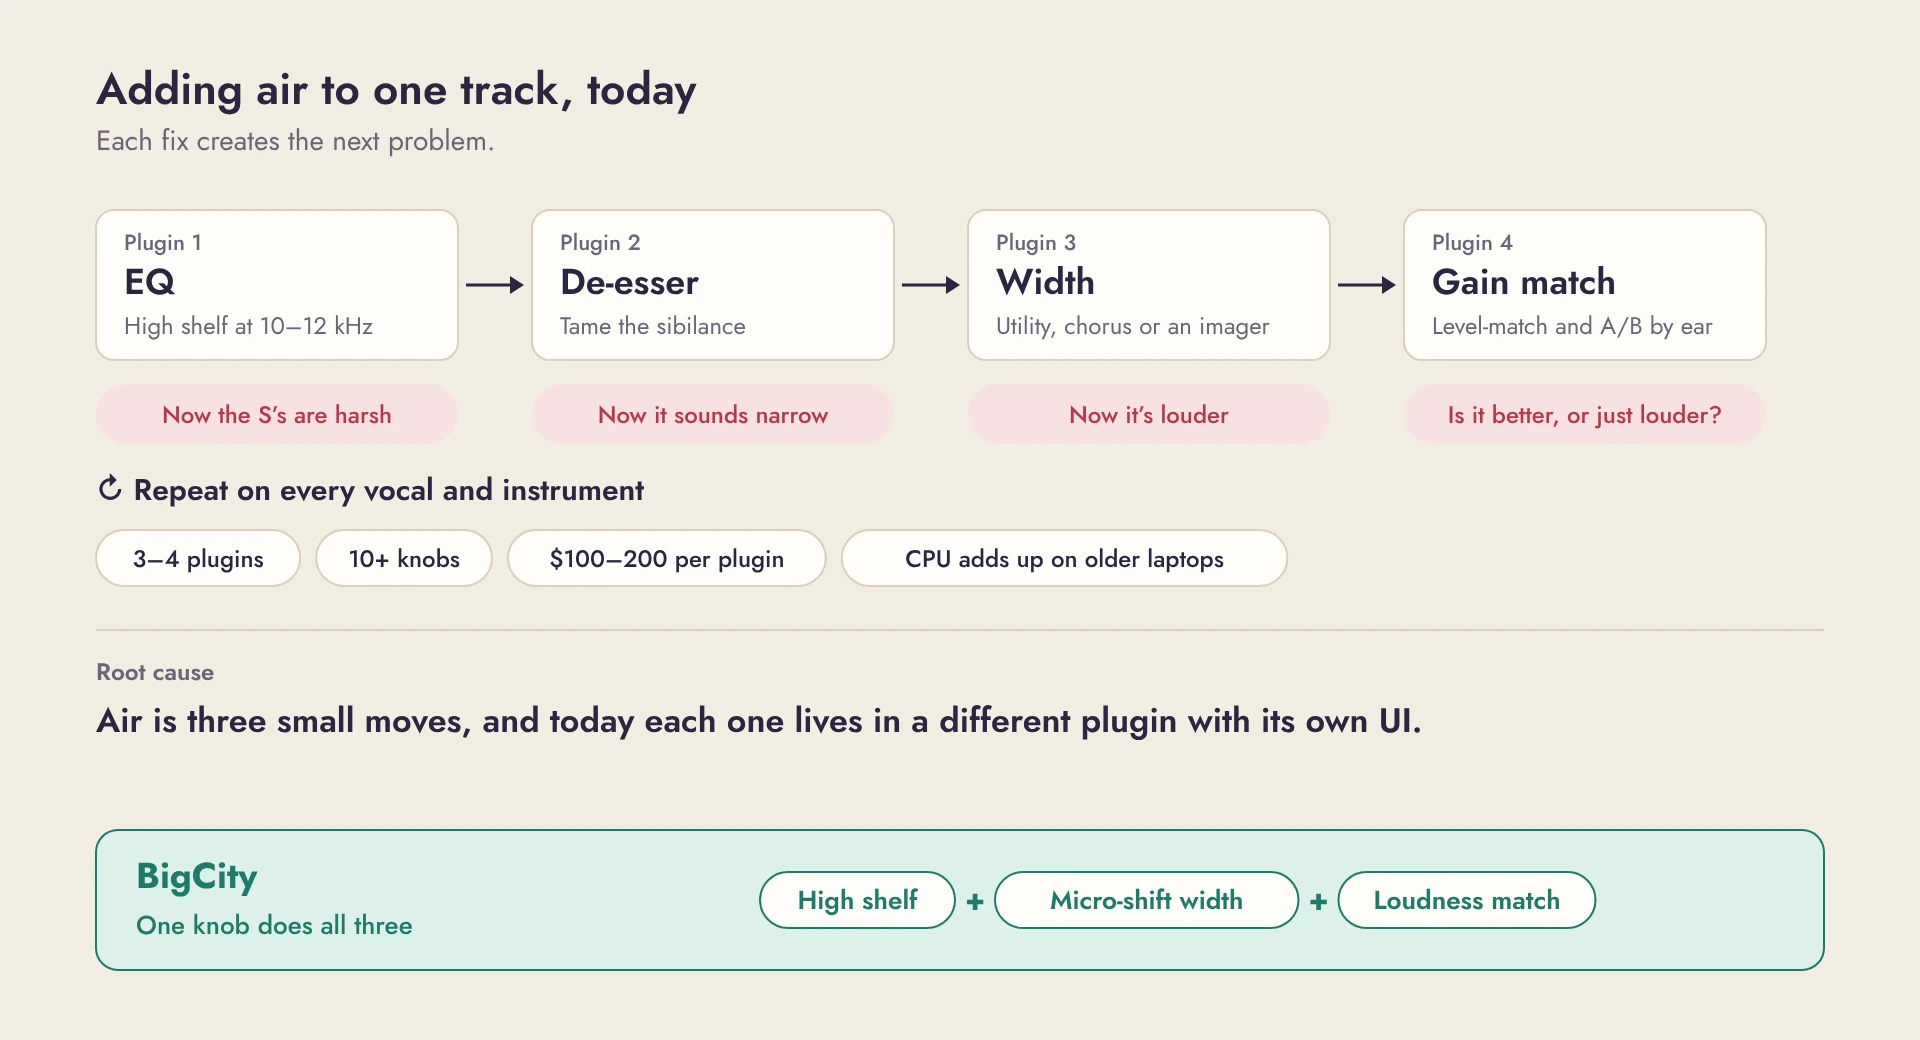
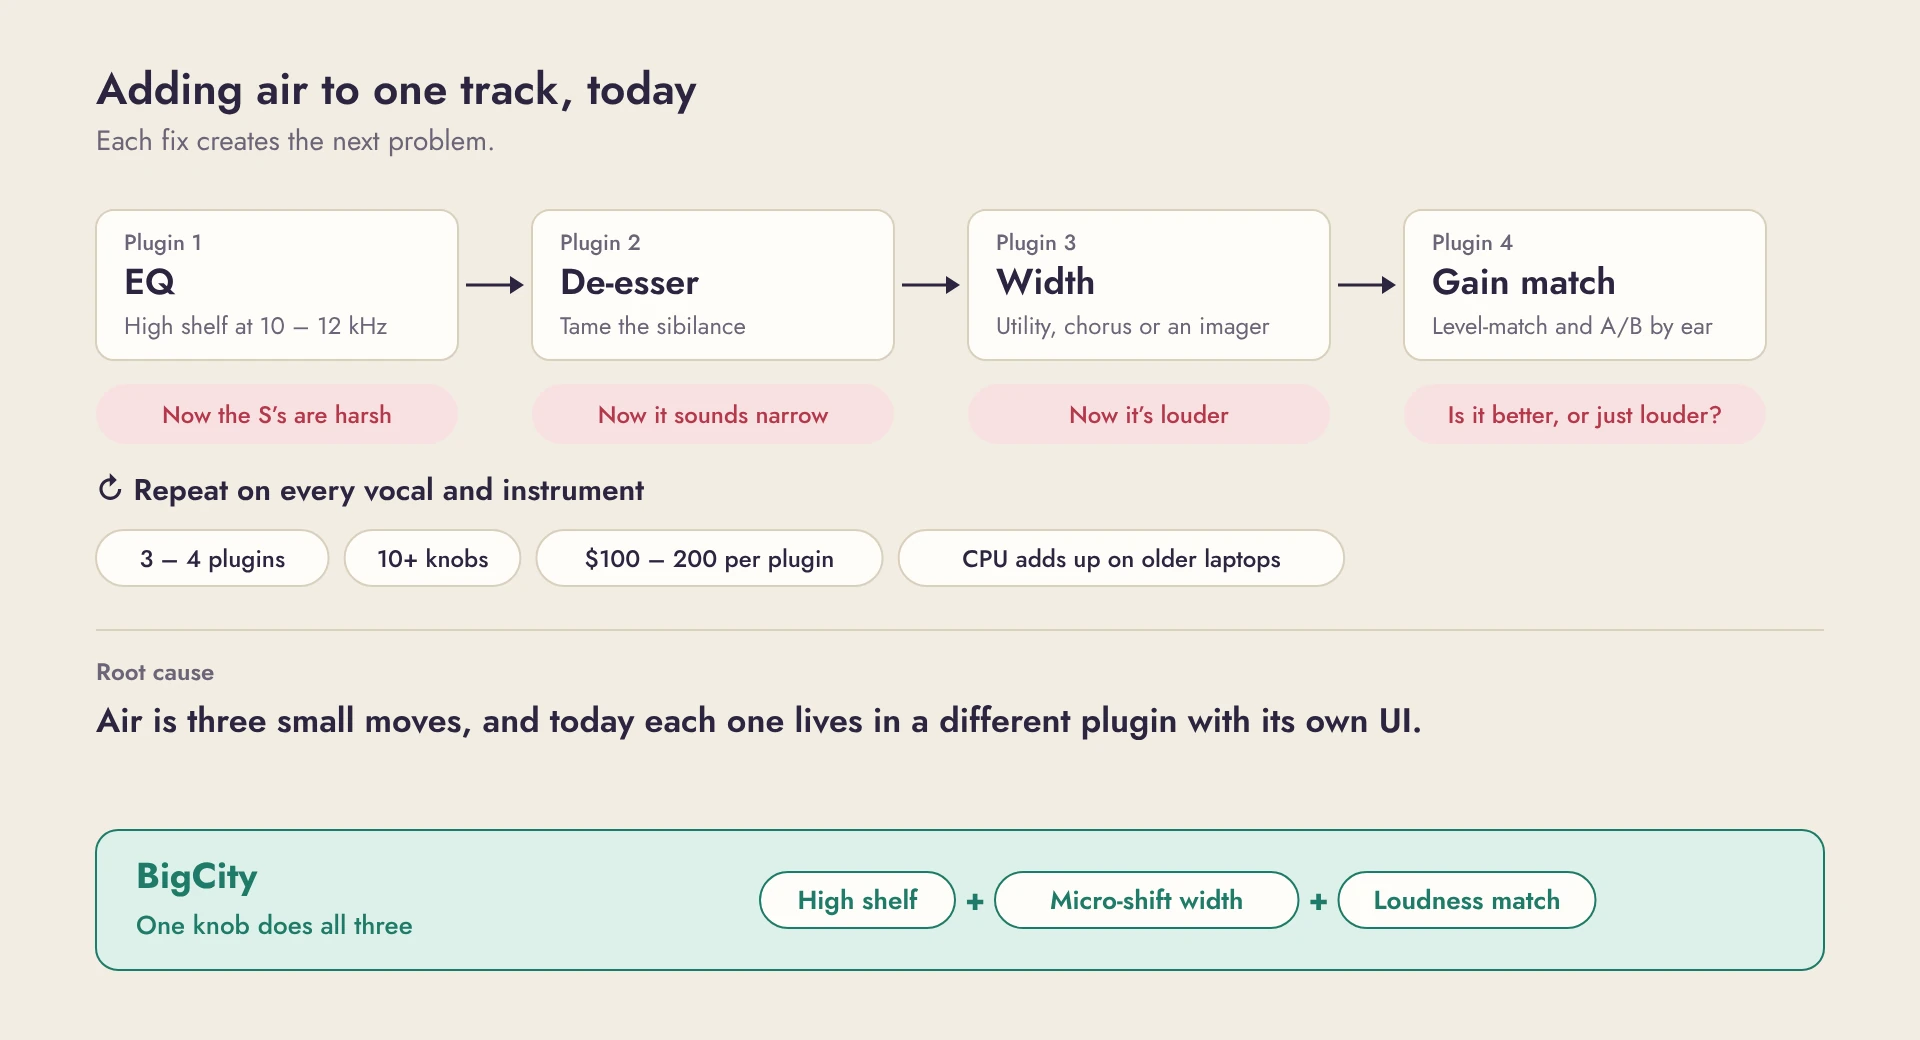
BigCity copy round: spaced ranges, v2/v3 iterations, voicing details, Impact quotes, lead paragraph style
Claude-Session: https://claude.ai/code/session_013QhMjwoRSaqU5W5hH2ffq1

Changed region(s): [[0.0625, 0.4923, 0.6875, 0.5538], [0.1562, 0.3077, 0.2188, 0.3385]]

diff --git a/src/content/work/bigcity.md b/src/content/work/bigcity.md
@@ -25,25 +25,20 @@ demo: true
     <p class="solari" data-solari>&lt;1%</p>
     <p class="metric-label">CPU per instance</p>
   </div>
-  <figcaption>Launched October 2026. Used by Unknown Caller and other touring electronic artists.</figcaption>
+  <figcaption>Launched October 2026. Used by Unknown Caller, Vaperror and other touring electronic artists.</figcaption>
 </figure>
 
 ## The problem
 
 ### Lost in the menus
 
-Music production is complex at every layer: the idea, the sound design, the software itself. I've lost hours in submenus of submenus chasing a sound that plays for 1.5 seconds (and that most listeners will never notice).
+Music production is complex at every layer: the idea, the sound design, and the software itself. I've lost hours in submenus of submenus chasing a sound that plays for 1.5 seconds (and that most listeners will never notice).
 
-If a track sounds dull and I want it to shine a bit more, it can take 3–4 plugins and 10+ knobs for one texture. The CPU adds up on older laptops, some of those plugins are $100–200, and by the time it sounds right the momentum I had is gone. Slate Digital's [Fresh Air](https://slatedigital.com/fresh-air/) gets closer, but it's still two knobs.
+If a track sounds dull and I want it to shine a bit more, it can take 3 – 4 plugins and 10+ knobs for one texture. The CPU adds up on older laptops, some of those plugins are $100 – 200, and by the time it sounds right the momentum I had is gone. Slate Digital's [Fresh Air](https://slatedigital.com/fresh-air/) gets closer, but it's still two knobs.
 
 <figure>
   <img src="/work/bigcity/02b-workflow.webp" alt="Adding air to one track today takes four plugins in a chain, and each fix creates the next problem. An EQ high shelf at 10 to 12 kHz makes the S's harsh. A de-esser fixes that but makes it sound narrow. A width plugin fixes that but makes it louder. A gain match and A/B by ear checks whether it's better or just louder. Repeat on every track: 3 to 4 plugins, 10+ knobs, $100 to 200 per plugin, and CPU that adds up on older laptops. Root cause: air is three small moves, and today each one lives in a different plugin with its own UI. BigCity: one knob does all three (high shelf, micro-shift width and loudness match)." width="1920" height="1040" loading="lazy" decoding="async">
   <figcaption>Adding air today, and what BigCity replaces.</figcaption>
-</figure>
-
-<figure>
-  <img src="/work/bigcity/02-early-sketch.webp" alt="An early BigCity concept: a light cream panel with the BigCity wordmark, a City size knob at 68.8, a pastel pixel skyline and an FX on/bypass switch." width="1516" height="796" loading="lazy" decoding="async">
-  <figcaption>Where BigCity started.</figcaption>
 </figure>
 
 > **Hypothesis:** Map a few parameters to one knob and make every position sound good, so producers get the sound without the rabbit hole.
@@ -54,7 +49,7 @@ If a track sounds dull and I want it to shine a bit more, it can take 3–4 plug
 
 I talked to 10+ producers across backgrounds and skill levels. Nobody asked for more features. They asked for less:
 
-- **Too expensive:** $100–200 for one texture stings after spending $400+ on a DAW.
+- **Too expensive:** $100 – 200 for one texture stings after spending $400+ on a DAW.
 - **Too heavy:** Bedroom producers often run older MacBooks that choke on long plugin chains.
 - **Too deep:** The joy of a new sound dies somewhere in a submenu of a submenu.
 
@@ -62,7 +57,7 @@ I talked to 10+ producers across backgrounds and skill levels. Nobody asked for 
 
 ### One knob, one job
 
-**Define the sound first:** City pop is a niche Japanese genre from the '70s and '80s, and its sheen is hard to fake. I defined “sparkle” as a high-shelf boost around 10–12 kHz (the “air” band where mixes get their shine) plus a subtle micro pitch shift. Then I mapped everything to one knob.
+**Define the sound first:** City pop is a niche Japanese genre from the '70s and '80s, and its sheen is hard to fake. I defined “sparkle” as a high-shelf boost around 10 – 12 kHz (the “air” band where mixes get their shine) plus a subtle micro pitch shift. Then I mapped everything to one knob.
 
 **Every position sounds good:** City size runs from 0 (LittleCity) to 100 (BigCity). At 0, your audio passes through untouched. Each knob position has a precomputed gain offset for loudness compensation, so you hear sparkle, not just a volume bump.
 
@@ -73,7 +68,7 @@ I talked to 10+ producers across backgrounds and skill levels. Nobody asked for 
 
 **Tune by ear, not by number:** The one-knob part of my hypothesis held up. What I got wrong was how strong it should be. In beta testing, 50 (the default) sounded too subtle. Instead of just turning the number up, I rendered one of my own tracks through three stronger curves and kept the one that held up on studio monitors, laptop speakers, and earbuds. All three were rendered on the beta loop and compared by ear; A sounded best, and it was the only one that fixed the default without changing the top.
 
-After launch, testers still found it too subtle on some tracks, even at 100. So 1.1 doubles the range: the new 50 is 1.0's 100. I tested three more voicings (Gentle, Medium and Literal double), with Medium winning because it goes further at the top without warble or harshness.
+After launch, testers still found it too subtle on some tracks, even at 100. So 1.1 doubles the range: the new 50 is 1.0's 100. I tested three more voicings at 100: Gentle (+9 dB of air), Medium (+10 dB) and Literal double (+15.6 dB, a reference for where the sound breaks), with Medium winning because it goes further at the top without warble or harshness.
 
 <figure>
   <img src="/work/bigcity/04-knob-response.webp" alt="Line chart of air at 10 kHz by City size. Pre-beta is a straight line to +7.8 dB at 100, with +3.9 dB at 50. 1.0 bends upward to +5.5 dB at 50 and the same +7.8 dB at 100. 1.1 reaches +7.8 dB at 50 and +10.0 dB at 100." width="1920" height="960" loading="lazy" decoding="async">
@@ -94,13 +89,13 @@ My first Figma pass didn't feel great to look at and lacked the visual texture I
 </figure>
 
 <figure>
-  <img src="/work/bigcity/05a-v2.webp" alt="Version 2 of the BigCity interface: the first full layout, with screws, pastel stripes, a pixel skyline, a City size knob at 50 and an FX on/bypass switch." width="1536" height="832" loading="lazy" decoding="async">
-  <figcaption>v2: the first full layout, with screws, stripes, skyline, knob and switch.</figcaption>
+  <img src="/work/bigcity/02-early-sketch.webp" alt="Version 2 of the BigCity interface: a clean light cream panel with the BigCity wordmark, a City size knob at 68.8, a pastel pixel skyline and an FX on/bypass switch." width="1516" height="796" loading="lazy" decoding="async">
+  <figcaption>v2: easier on the eyes but lacking visual texture.</figcaption>
 </figure>
 
 <figure>
-  <img src="/work/bigcity/05b-v4.webp" alt="Version 4 of the BigCity interface: aged paper texture with scuffs, a sunset skyline, a redesigned knob and an LCD readout showing 50.0." width="1536" height="832" loading="lazy" decoding="async">
-  <figcaption>v4: paper texture, scuffs, aging, screwdriver slips, and an LCD readout with burned-in segments.</figcaption>
+  <img src="/work/bigcity/05b-v4.webp" alt="Version 3 of the BigCity interface: aged paper texture with scuffs, a sunset skyline, a redesigned knob and an LCD readout showing 50.0." width="1536" height="832" loading="lazy" decoding="async">
+  <figcaption>v3: paper texture, scuffs, aging, screwdriver slips, and an LCD readout with burned-in segments.</figcaption>
 </figure>
 
 <figure>
@@ -118,7 +113,7 @@ My first Figma pass didn't feel great to look at and lacked the visual texture I
   <figcaption>City size from 0 to 100, then bypass on and off. Sound on.</figcaption>
 </figure>
 
-**A skyline that shows what you hear:** A beta tester asked, “What if the dial controlled time of day too?” I changed the design so the sun sets from midday to dusk as the city grows and the knob moves from 0 to 100. The water shimmers too (a small nod to how giddy I felt seeing that effect in Pokémon Silver on my old Game Boy).
+**A skyline that shows what you hear:** A beta tester asked, “What if the dial controlled time of day too?” I changed the design so the sun sets from midday to dusk as the city size grows and the knob moves from 0 to 100. The water shimmers too (a small nod to how giddy I felt seeing that effect in Pokémon Silver on my old Game Boy).
 
 <figure>
   <img src="/work/bigcity/07-time-of-day.webp" alt="The skyline at City size 0 (midday), 25 (afternoon), 50 (golden hour), 75 (sunset) and 100 (dusk), with more windows lit as the city grows." width="1920" height="436" loading="lazy" decoding="async">
@@ -142,7 +137,7 @@ My first Figma pass didn't feel great to look at and lacked the visual texture I
 
 ### One click and you're deleted
 
-<p class="pull">Modern plugins are CPU-hungry, and on older machines that means clicks, pops, and dropouts mid-session, forcing producers to freeze and flatten tracks just to keep working. Every extra step pulls them out of creative flow.</p>
+<p class="lede">Modern plugins are CPU-hungry, and on older machines that means clicks, pops, and dropouts mid-session, forcing producers to freeze and flatten tracks just to keep working. Every extra step pulls them out of creative flow.</p>
 
 Real-time audio is unforgiving. One click, pop, or crash and a producer decides your plugin isn't worth it.
 
@@ -171,9 +166,7 @@ Nothing shipped without passing:
 
 I wrote the spec, designed BigCity in Figma, and chose the architecture. Claude Code explained JUCE and wrote first-draft code, which I reviewed and tested in real-time.
 
-<p class="pull">But AI is genuinely terrible at critical listening.</p>
-
-Claude Code’s first draft led to jumps between values, so sweeping the knob caused zipper noise (that harsh, robotic sound nobody likes). I caught it through ear testing on multiple speakers and headphones and added parameter smoothing so the sound glides between values.
+But AI is genuinely terrible at critical listening. Claude Code’s first draft led to jumps between values, so sweeping the knob caused zipper noise (that harsh, robotic sound that nobody likes). I caught it through ear testing on multiple speakers and headphones and added parameter smoothing so the sound glides between values.
 
 Claude Code was great for v1.0 but it’s no substitute for judgment in a niche this specific.
 
@@ -183,9 +176,9 @@ Claude Code was great for v1.0 but it’s no substitute for judgment in a niche 
 
 BigCity launched on [Gumroad](https://sunshoweraudio.gumroad.com/l/bigcity) on October 13, 2026, as pay-what-you-want, including $0. It's a small part of making a good song, so I wanted newer producers to be able to use it.
 
-Early signal is good. City pop producer “Unknown Caller” tried it on multiple tracks with no CPU hit and said, “All my homies hate two knobs.” [Vaperror](https://open.spotify.com/artist/0AEVuiJFczDd4dkmZh2Kha), an international touring electronic artist, called it “a stereoizer with a ‘smoother’ feel than Ableton Utility.”
+City pop producer “Unknown Caller” said, “[BigCity] is quick and intuitive. I could see myself slapping this on vocals or master track to add polish and air.” [Vaperror](https://open.spotify.com/artist/0AEVuiJFczDd4dkmZh2Kha), another international touring electronic artist, called it “a stereoizer with a ‘smoother’ feel than Ableton Utility.”
 
-Back to the hypothesis: one knob, and every position sounds good. One knob held up; the strength took two rounds to get right. The engineering side holds up. Audio is untouched at 0, loudness stays close to matched across the dial, and the plugin is light enough to forget. Whether it keeps producers out of the rabbit hole is too early to call. The signal I care about most: producers sending me tracks that use it.
+It's too early to tell whether it keeps producers out of the rabbit hole, but being compared to a native Ableton plugin by an international touring artist definitely made me smile.
 
 ## What's next
 
